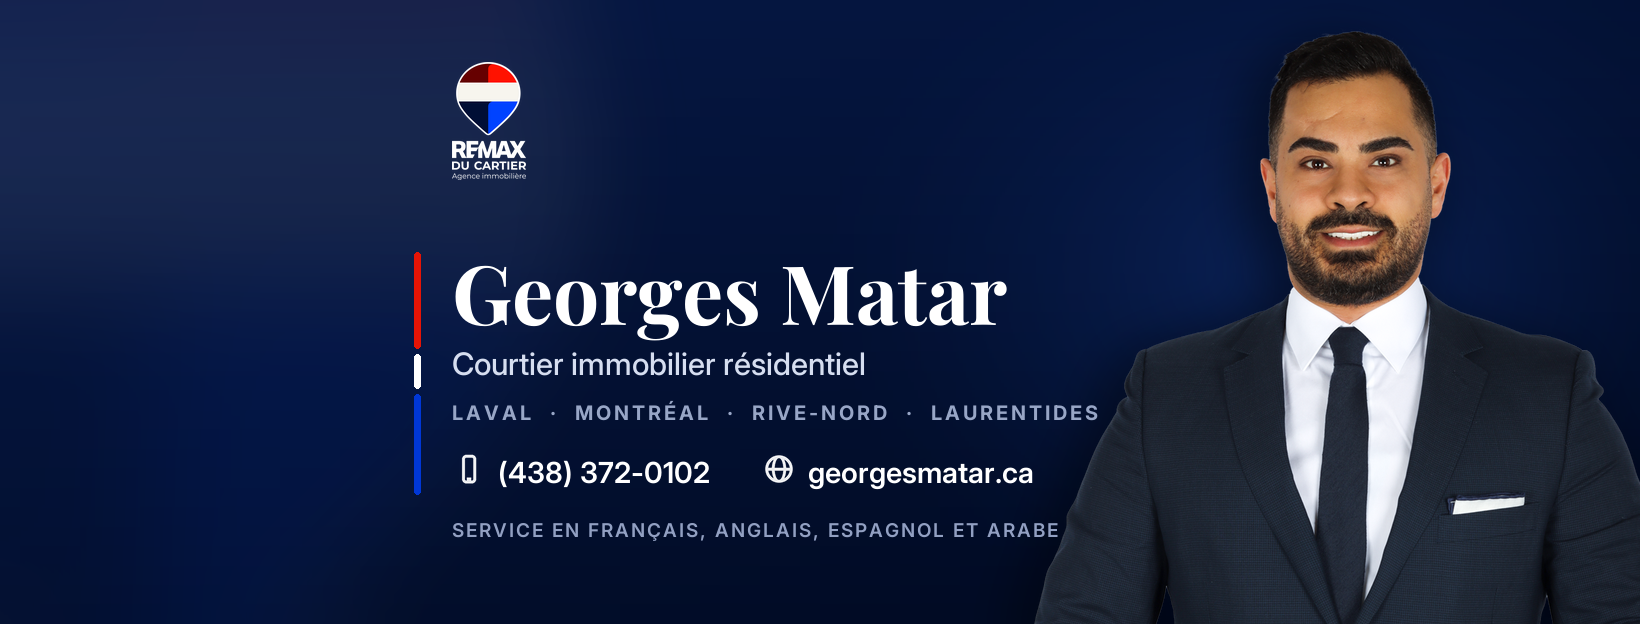
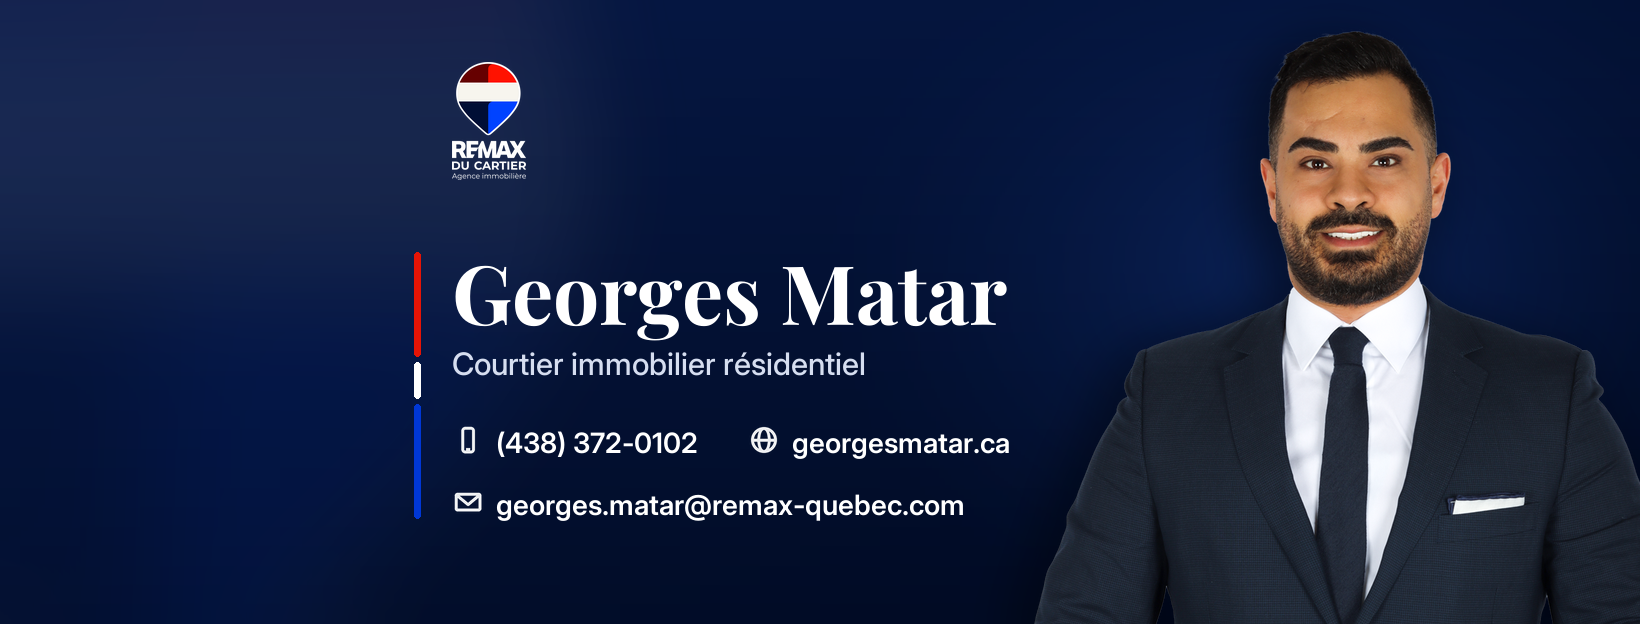
fix: couverture Facebook, retire secteurs et langues, ajoute le courriel
Bloc de coordonnees a deux lignes: telephone et site web, puis courriel
georges.matar@remax-quebec.com.

Changed region(s): [[0.2488, 0.6394, 0.6841, 0.883]]

diff --git a/facebook/generer-couverture.py b/facebook/generer-couverture.py
@@ -132,6 +132,7 @@ def logo(canvas, box_h, xy):
 # ---------------------------------------------------------------- icones
 ICONS = {
     "phone": [("r", 7, 2, 17, 22, 3), ("l", 10.5, 19, 13.5, 19)],
+    "mail": [("r", 2, 5, 22, 19, 2), ("p", [(2.5, 6), (12, 14), (21.5, 6)])],
     "globe": [("c", 12, 12, 9.6), ("l", 2.4, 12, 21.6, 12),
               ("a", 7, 2.4, 17, 21.6, 0, 360)],
 }
@@ -153,6 +154,8 @@ def icon(canvas, name, xy, size, color, sw=None):
         if t == "l":
             d.line([P(op[1], op[2]), P(op[3], op[4])], fill=color, width=S,
                    joint="curve")
+        elif t == "p":
+            d.line([P(*p) for p in op[1]], fill=color, width=S, joint="curve")
         elif t == "r":
             d.rounded_rectangle([P(op[1], op[2]), P(op[3], op[4])],
                                 op[5] * k * ss, outline=color, width=S)
@@ -177,7 +180,7 @@ def couverture():
 
     # barre d accent rouge, blanc, bleu, alignee sur le bloc de texte
     bx, by, bw = X - 38, 252, 6
-    for col, y0, y1 in [(RED, 0, 96), (WHITE, 102, 136), (BLUE, 142, 242)]:
+    for col, y0, y1 in [(RED, 0, 104), (WHITE, 110, 146), (BLUE, 152, 266)]:
         d.rounded_rectangle([bx, by + y0, bx + bw, by + y1], bw / 2,
                             fill=col + (255,))
 
@@ -187,22 +190,16 @@ def couverture():
     d.text((X, 344), "Courtier immobilier résidentiel",
            font=inter(31, 500), fill=(214, 222, 240, 255))
 
-    tracked(d, (X, 400), "LAVAL  ·  MONTRÉAL  ·  RIVE-NORD  ·  LAURENTIDES",
-            inter(20, 700), NAVY_SOFT + (255,), 3)
-
-    # coordonnees
-    y = 452
-    f = inter(29, 600)
+    # coordonnees: telephone et site sur une ligne, courriel en dessous
+    f = inter(28, 600)
     x = X
     for ic, t in [("phone", "(438) 372-0102"), ("globe", "georgesmatar.ca")]:
-        icon(c, ic, (int(x), y), 34, (255, 255, 255, 235), sw=3)
-        d.text((x + 46, y + 2), t, font=f, fill=WHITE)
-        x += int(46 + d.textlength(t, font=f) + 52)
+        icon(c, ic, (int(x), 424), 32, (255, 255, 255, 235), sw=3)
+        d.text((x + 44, 425), t, font=f, fill=WHITE)
+        x += int(44 + d.textlength(t, font=f) + 50)
 
-    # Pillow ne fait pas la mise en forme de l ecriture arabe: le nom des
-    # langues reste en francais, sinon les lettres sortent detachees.
-    tracked(d, (X, 518), "SERVICE EN FRANÇAIS, ANGLAIS, ESPAGNOL ET ARABE",
-            inter(19, 600), (146, 160, 194, 255), 2)
+    icon(c, "mail", (X, 486), 32, (255, 255, 255, 235), sw=3)
+    d.text((X + 44, 487), "georges.matar@remax-quebec.com", font=f, fill=WHITE)
 
     return c
 

diff --git a/facebook/README.md b/facebook/README.md
@@ -19,17 +19,13 @@ Deux elements viennent recouvrir la couverture, la mise en page les evite:
 - **Photo de profil**: cercle en bas a gauche. Rien d important a gauche de
   x = 400 ni dans le coin inferieur gauche. Le degrade seul occupe cette zone.
 - **Recadrage telephone**: Facebook rogne les cotes sur mobile. Tout le texte
-  reste entre x = 452 et x = 1105, donc toujours visible.
+  reste entre x = 452 et x = 1000, donc toujours visible.
 
 ### Contenu
 
-Logo RE/MAX DU CARTIER, nom, titre, secteurs desservis, telephone, site web
-et langues de service. Portrait detoure a droite, sur le navy de la charte.
-Polices Playfair Display et Inter, les memes que le site.
-
-Les langues sont ecrites en francais plutot que chacune dans sa propre
-ecriture: Pillow ne fait pas la mise en forme de l arabe et les lettres
-sortiraient detachees les unes des autres.
+Logo RE/MAX DU CARTIER, nom, titre, telephone, site web et courriel.
+Portrait detoure a droite, sur le navy de la charte. Polices Playfair
+Display et Inter, les memes que le site.
 
 ### Regenerer
 
